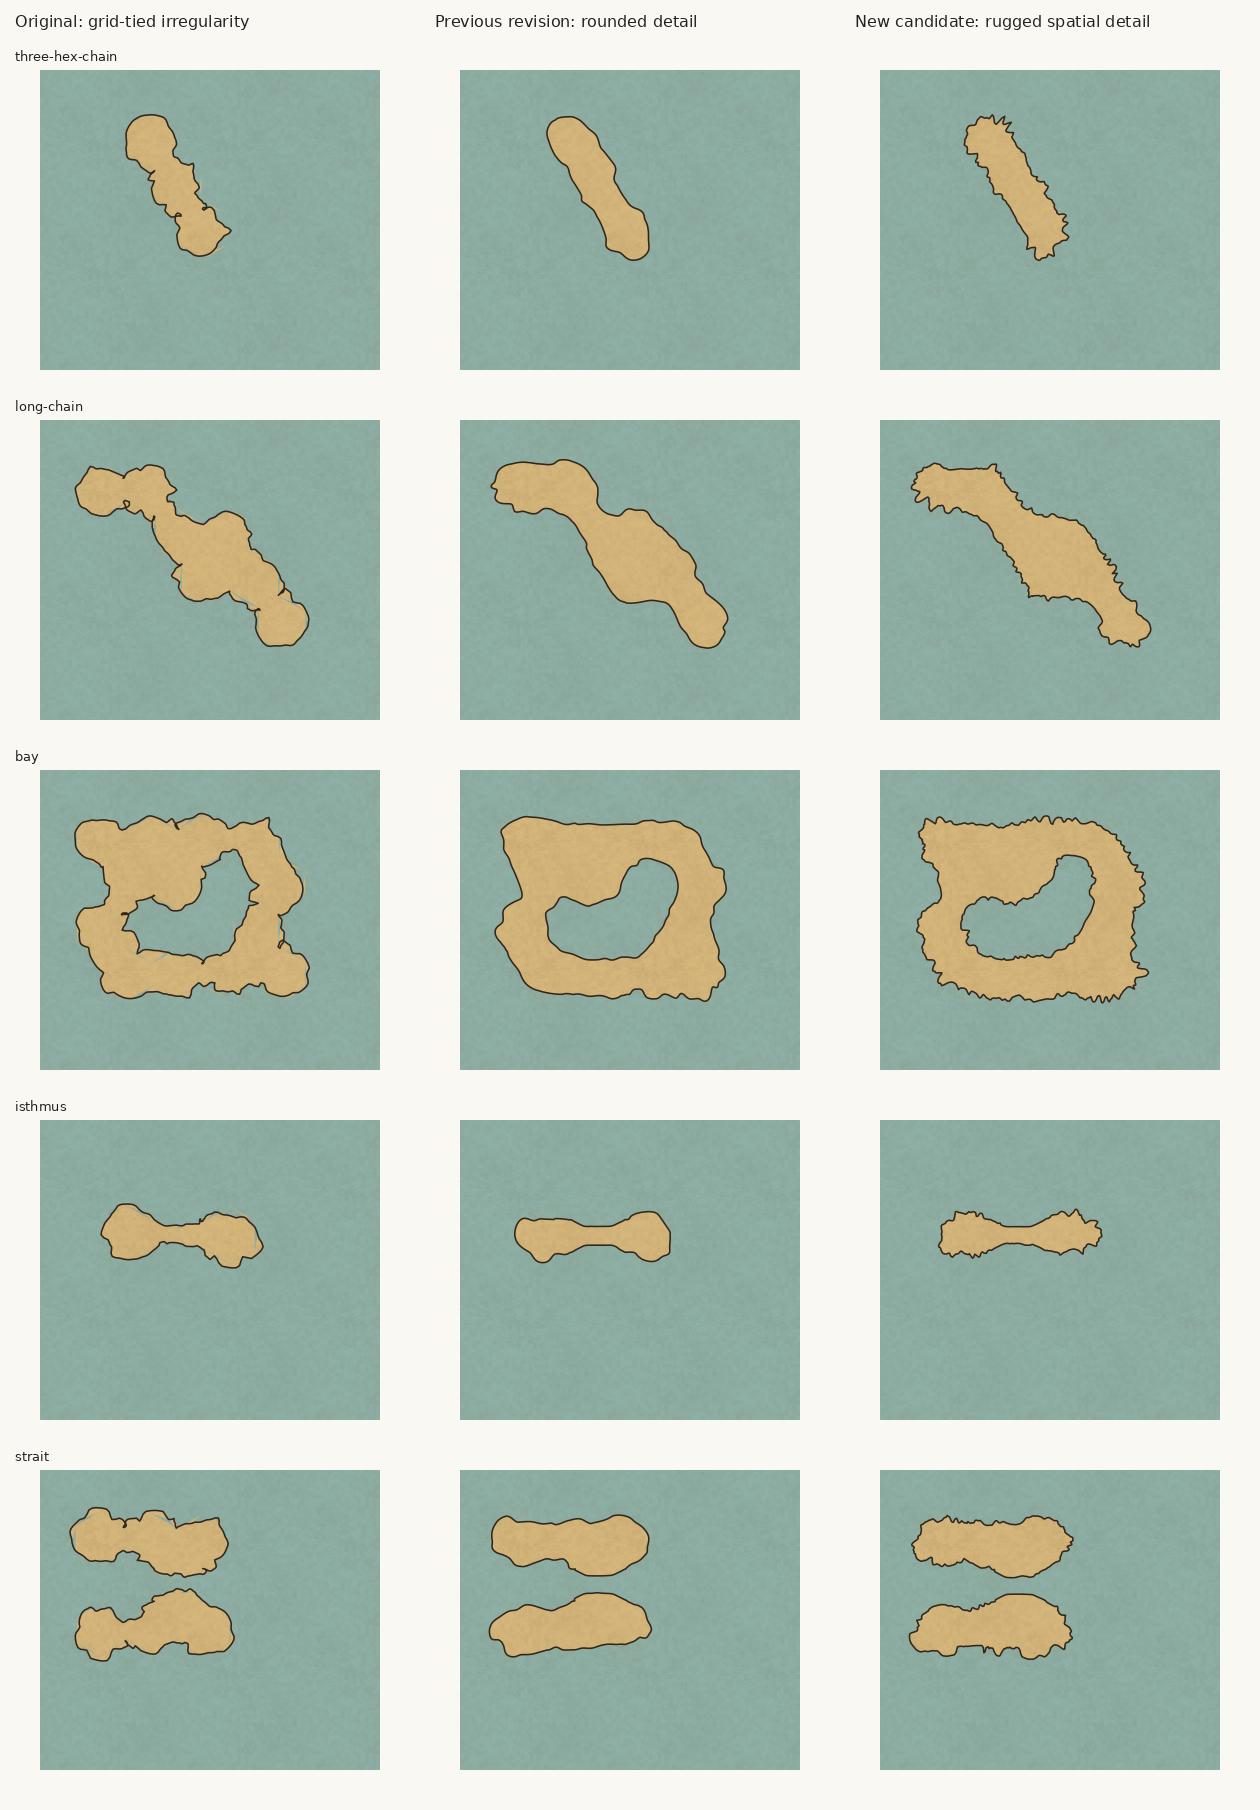
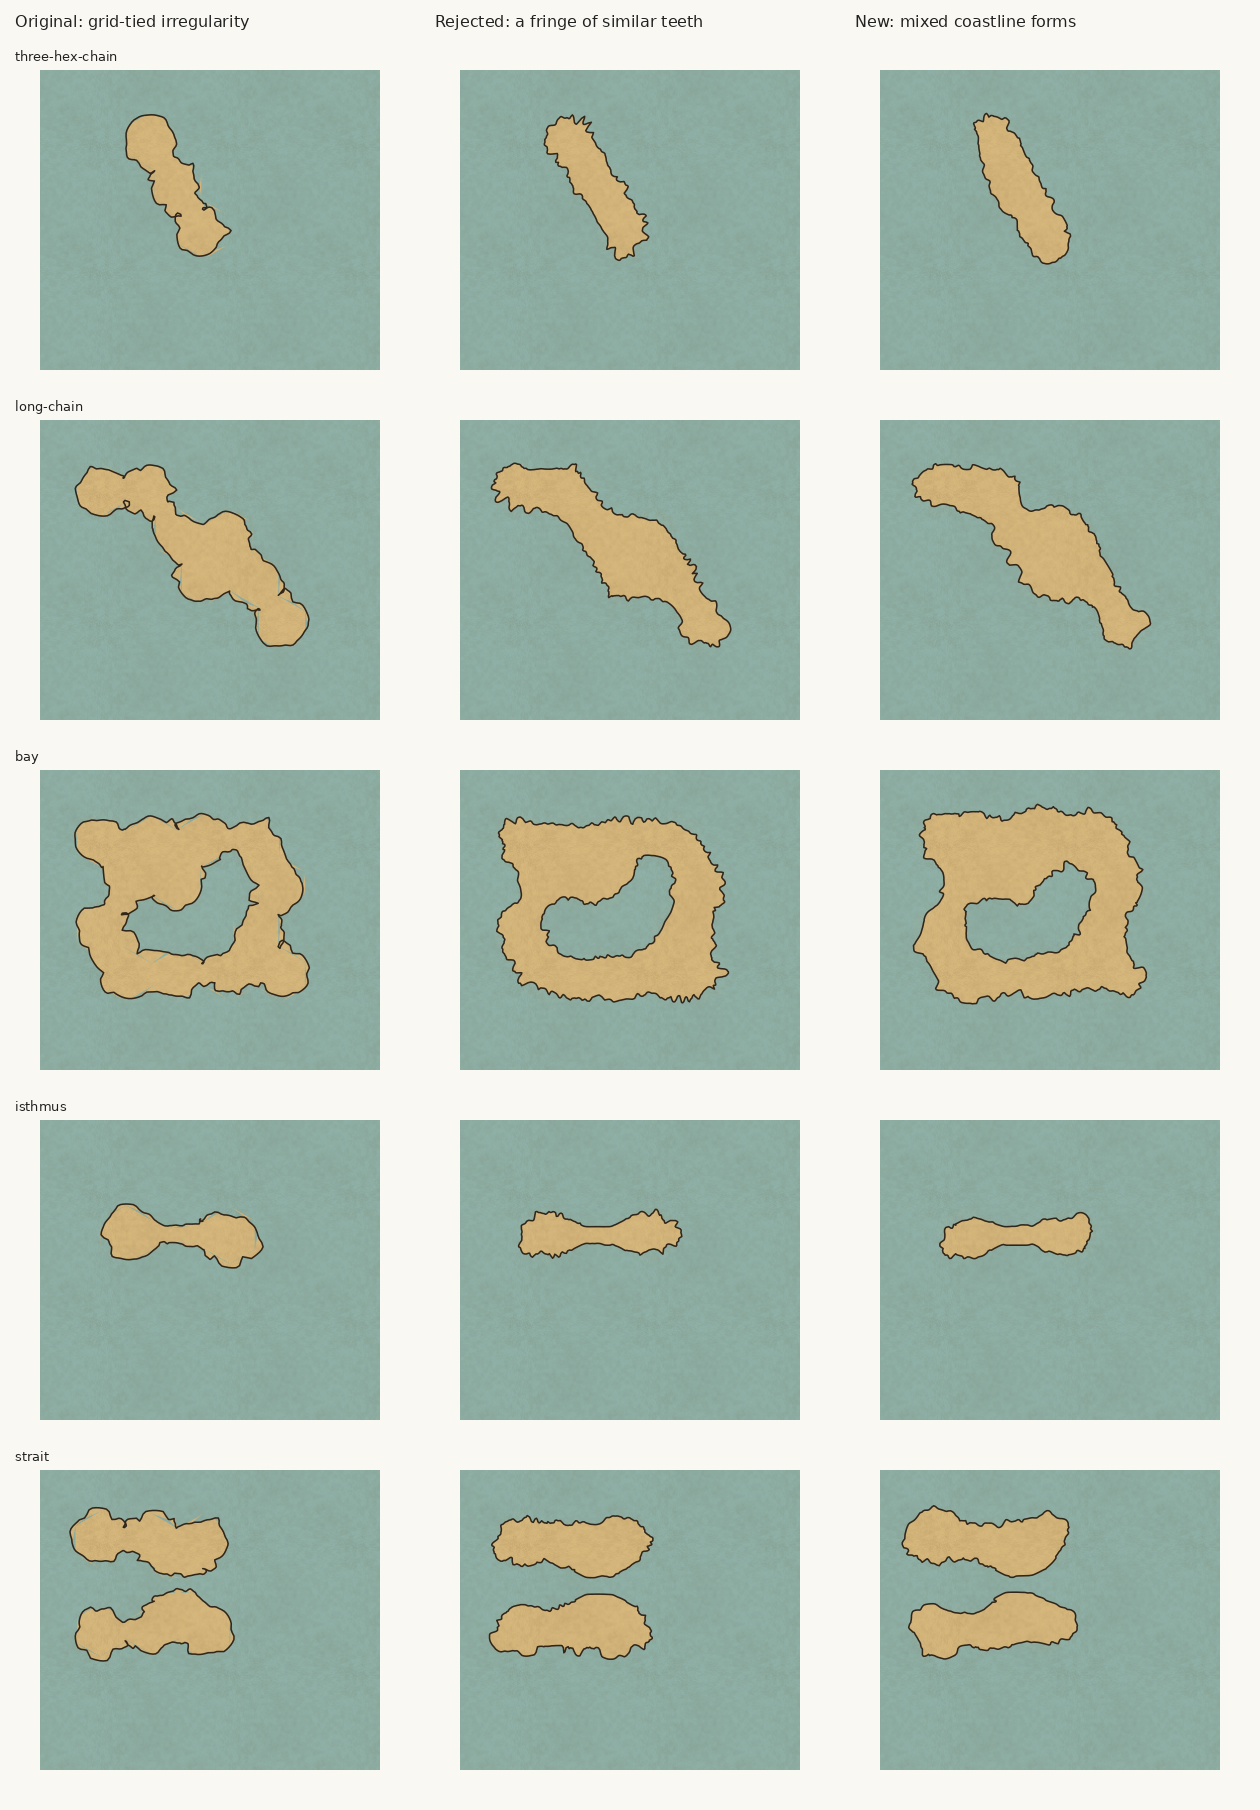
Shape broad coastal features separately from varied local cuts and capes

diff --git a/src/render/componentCoast.ts b/src/render/componentCoast.ts
@@ -54,7 +54,7 @@ export function coastClearance(chains: CoastChain[], size: number): (p: Point, c
     return nearest;
   };
 }
-/** Uniform arc-length samples, a multi-hex low-pass silhouette, then warped spatial ridge/erosion detail.
+/** Uniform arc-length samples, a multi-hex low-pass silhouette, then independently shaped bays, capes and cuts.
 * No source corner or edge midpoint is a mandatory waypoint. Source correspondence is kept
 * solely for donor colours, fill correction, border ends and explicit geographic constraints.
 */
@@ -99,13 +99,49 @@ export function componentCoast(chain: CoastChain, rough: Roughness, clearance: R
     const c = { x: silhouette.reduce((s, p) => s + p.x, 0) / n, y: silhouette.reduce((s, p) => s + p.y, 0) / n };
     silhouette.forEach((p, i) => silhouette[i] = { x: c.x + (p.x - c.x) * scale, y: c.y + (p.y - c.y) * scale });
   }
+  // Features belong to the whole component, with independent locations, signs,
+  // extents and profiles. Accumulate their finite supports into uniform samples;
+  // there is no alternating knot sequence or one repeated motif per hex edge.
+  const centre = { x: source.reduce((sum, p) => sum + p.x, 0) / n, y: source.reduce((sum, p) => sum + p.y, 0) / n };
+  const random = (feature: number, role: number) => rough.noise(centre.x / size, centre.y / size, feature * 31 + role);
+  const features = (band: number) => {
+    const broad = band === 0;
+    const values = Array<number>(n).fill(0);
+    const count = Math.max(broad ? 3 : 8, Math.ceil(perimeter / (size * (broad ? 3.5 : band === 1 ? 0.9 : 0.23))));
+    for (let f = 0; f < count; f++) {
+      const id = f + (broad ? 1000 : band === 1 ? 10000 : 20000);
+      const position = random(id, 0) * perimeter;
+      const width = size * (broad ? 0.9 + random(id, 1) * 2.7 : band === 1 ? 0.2 + random(id, 1) ** 2 * 1.0 : 0.06 + random(id, 1) ** 2 * 0.3);
+      const left = Math.min(perimeter / 4, width * (0.4 + random(id, 2) * 1.2));
+      const right = Math.min(perimeter / 4, width * (0.4 + random(id, 3) * 1.2));
+      const height = (random(id, 4) * 2 - 1) * Math.min(broad ? 0.55 : band === 1 ? 0.4 : 0.16, Math.min(left, right) / size * (broad ? 0.7 : 1.15));
+      const kind = Math.floor(random(id, 5) * 4);
+      const power = 1 + random(id, 6) * 1.25;
+      const shelf = 0.15 + random(id, 7) * 0.45;
+      const first = Math.ceil((position - left) / step), last = Math.floor((position + right) / step);
+      for (let j = first; j <= last; j++) {
+        if (!chain.closed && (j < 0 || j >= n)) continue;
+        const i = (j % n + n) % n, delta = j * step - position;
+        const u = Math.abs(delta) / (delta < 0 ? left : right);
+        let shape: number;
+        if (kind === 0) shape = (1 - u * u) ** 2;
+        else if (kind === 1) shape = (1 - u) ** power;
+        else if (kind === 2) shape = u < shelf ? 1 : (1 - u) / (1 - shelf);
+        else shape = (1 - u * u) ** 2 * (1 - (delta < 0 ? 3 : 0.5) * u);
+        values[i] = values[i]! + height * shape;
+      }
+    }
+    return values;
+  };
+  const broadFeatures = features(0), cuts = features(1), fine = features(2);
+  const shoreFeatures = cuts.map((v, i) => v + fine[i]!);
   const result = silhouette.map((p, i) => {
     const prev = silhouette[chain.closed ? (i - 1 + n) % n : Math.max(0, i - 1)]!;
     const next = silhouette[chain.closed ? (i + 1) % n : Math.min(n - 1, i + 1)]!;
     const dx = next.x - prev.x, dy = next.y - prev.y, len = Math.hypot(dx, dy) || 1;
     const amplitude = rough.amplitude(donors[i]!);
     const strength = amplitude > 0 ? 1 : 0;
-    const off = -(rough.lean?.(donors[i]!) ?? 0) * size;
+    const off = -(rough.lean?.(donors[i]!) ?? 0) * size + broadFeatures[i]! * size * amplitude / 0.12;
     const target = { x: p.x - dy / len * off, y: p.y + dx / len * off };
     const original = source[i]!;
     // Reserve movement for detail after the silhouette is eased. Explicit geographic limits
@@ -134,50 +170,6 @@ export function componentCoast(chain: CoastChain, rough: Roughness, clearance: R
     return { x: x / sum, y: y / sum };
   });
   result.splice(0, result.length, ...eased);
-  // Shape variation lives in a planar field, rather than in a sequence of alternating
-  // positive/negative knots around the shore. Warping the field's coordinates and using
-  // one-sided ridges creates asymmetric features at several scales.
-  const centre = { x: source.reduce((sum, p) => sum + p.x, 0) / n, y: source.reduce((sum, p) => sum + p.y, 0) / n };
-  const seedX = centre.x / size, seedY = centre.y / size;
-  const axis = rough.noise(seedX, seedY, 60) * Math.PI * 2;
-  const origin = {
-    x: rough.noise(seedX, seedY, 61) * 100,
-    y: rough.noise(seedX, seedY, 62) * 100,
-  };
-  const field = (p: Point, scale: number, purpose: number) => {
-    const px = (p.x - centre.x) / (size * scale), py = (p.y - centre.y) / (size * scale);
-    const x = px * Math.cos(axis) - py * Math.sin(axis) + origin.x;
-    const y = px * Math.sin(axis) + py * Math.cos(axis) + origin.y;
-    const ix = Math.floor(x), iy = Math.floor(y), fx = x - ix, fy = y - iy;
-    const gradient = (a: number, b: number) => {
-      const gx = rough.noise(seedX + a * 13, seedY + b * 17, purpose) * 2 - 1;
-      const gy = rough.noise(seedX + a * 13, seedY + b * 17, purpose + 100) * 2 - 1;
-      const length = Math.hypot(gx, gy) || 1;
-      return (gx * (x - a) + gy * (y - b)) / length;
-    };
-    const fade = (t: number) => t * t * t * (t * (t * 6 - 15) + 10);
-    const u = fade(fx), v = fade(fy);
-    const a = gradient(ix, iy), b = gradient(ix + 1, iy), c = gradient(ix, iy + 1), d = gradient(ix + 1, iy + 1);
-    return ((a + (b - a) * u) * (1 - v) + (c + (d - c) * u) * v) * 1.7;
-  };
-  const terrain = (p: Point) => {
-    const warped = {
-      x: p.x + field(p, 2.7, 70) * size * 0.75,
-      y: p.y + field(p, 2.7, 71) * size * 0.75,
-    };
-    const regional = field(warped, 1.8, 72);
-    // A regional field varies strength without switching detail off. Angular ridges
-    // and erosion remain present around the coast, with no coast-wide RMS normalization.
-    const gate = 0.4 + 0.6 * Math.max(0, Math.min(1, (regional + 0.55) / 1.05)) ** 2;
-    const coarse = field(warped, 2.3, 73);
-    const ridge = Math.abs(field(warped, 0.55, 74));
-    const inlet = Math.max(0, field(warped, 0.85, 75)) ** 2;
-    const fine = field(warped, 0.22, 76) * 0.65 + field(warped, 0.095, 77) * 0.2;
-    return {
-      flow: { x: field(warped, 2.0, 78), y: field(warped, 2.0, 79) },
-      relief: coarse * 0.7 + gate * (ridge * 1.7 - inlet * 2.5 + fine),
-    };
-  };
   const amplitudes = donors.map(edge => rough.amplitude(edge));
   const limits = donors.map((edge, i) => Math.min(size * 0.4, clearance(source[i]!, chain, i * step) * 0.14,
     (rough.displacementLimit?.(edge) ?? Infinity) * 0.4));
@@ -200,14 +192,12 @@ export function componentCoast(chain: CoastChain, rough: Roughness, clearance: R
     const next = eased[chain.closed ? (i + 1) % n : Math.min(n - 1, i + 1)]!;
     const dx = next.x - previous.x, dy = next.y - previous.y, length = Math.hypot(dx, dy) || 1;
     const arc = i * step;
-    const sample = terrain(p);
     const amplitude = settings[i]!.amplitude * size;
-    // Large planar flow changes the outline asymmetrically. Smaller ridged/erosive detail
-    // follows its local shore normal, with regionally varying strength.
-    const move = {
-      x: amplitude * (sample.flow.x * 1.5 - dy / length * sample.relief * 3.0),
-      y: amplitude * (sample.flow.y * 1.5 + dx / length * sample.relief * 3.0),
-    };
+    // Keep local cuts and capes after the component-scale silhouette filter. Their
+    // profiles range from curved bays to skewed wedges and shelves, rather than
+    // covering the whole coast with the same ridged high-frequency field.
+    const offset = shoreFeatures[i]! * amplitude / 0.12;
+    const move = { x: -dy / length * offset, y: dx / length * offset };
     const limit = settings[i]!.limit;
     const distance = Math.hypot(move.x, move.y) || 1;
     const ends = chain.closed ? 1 : Math.min(1, arc / size, (perimeter - arc) / size);

diff --git a/test/componentCoast.test.ts b/test/componentCoast.test.ts
@@ -83,14 +83,16 @@ test('an explicit narrow isthmus or strait retains its centre and at least half 
     const width = size * Math.sqrt(3) * 0.1;
     const shaped = shapeCoast(edges, surface, size, new Map([[27, { share: 0.5, kind: type === 'Isthmus' ? 'neck' : 'channel', width }]]))!;
     const limit = (e: CoastEdge) => (e.hex === 27 || e.across === 27) ? width * 0.15 : Infinity;
-    const geometry = coastGeometryOf(shaped.edges, true, { size, noise, amplitude: () => 0.2, displacementLimit: limit }, shaped);
-    const rings = geometry.paths.flatMap(d => pathPolylines(d, 6));
-    assert.equal(crossings(rings), 0, type);
-    const inside = evenOddTest(rings, size / 8), centre = hexCenter(3, 3, size);
-    // The land neck runs east-west; the water channel runs north-south.
-    // These closed rings enclose the land island or the water hole, respectively.
-    for (let y = -width * 0.25; y <= width * 0.25; y += width / 8) {
-      assert.equal(inside(type === 'Isthmus' ? { x: centre.x, y: centre.y + y } : { x: centre.x + y, y: centre.y }), true, `${type} width at y=${y}`);
+    for (let seed = 0; seed < 32; seed++) {
+      const geometry = coastGeometryOf(shaped.edges, true, { size, noise: (x, y, k) => noise(x, y, k + seed * 100), amplitude: () => 0.2, displacementLimit: limit }, shaped);
+      const rings = geometry.paths.flatMap(d => pathPolylines(d, 6));
+      assert.equal(crossings(rings), 0, `${type}, seed ${seed}`);
+      const inside = evenOddTest(rings, size / 8), centre = hexCenter(3, 3, size);
+      // The land neck runs east-west; the water channel runs north-south.
+      // These closed rings enclose the land island or the water hole, respectively.
+      for (let y = -width * 0.25; y <= width * 0.25; y += width / 8) {
+        assert.equal(inside(type === 'Isthmus' ? { x: centre.x, y: centre.y + y } : { x: centre.x + y, y: centre.y }), true, `${type}, seed ${seed}, width at y=${y}`);
+      }
     }
   }
 });
@@ -99,7 +101,7 @@ test('coast components remain disjoint across varied seeds, with lakes and small
   const base: BaseGeo[] = Array(64).fill('Sea');
   for (const i of [9,10,11,17,18,19,25,26,27,45,46,53,54]) base[i] = 'Land';
   base[18] = 'Sea'; // water hole in the northern island
-  for (let seed = 0; seed < 12; seed++) {
+  for (let seed = 0; seed < 32; seed++) {
     const geometry = coastGeometryOf(coastEdges(base, cols, rows, size), true, {
       size, noise: (x,y,k) => noise(x,y,k+seed*100), amplitude: () => 0.2,
     });
@@ -143,16 +145,20 @@ test('irregularity survives the silhouette stage, grows with its level, and does
     });
   };
   const rms = (values: number[]) => Math.sqrt(values.reduce((sum, v) => sum + v*v, 0) / values.length);
-  const wavy = rms(residual(0.06)), ragged = rms(residual(0.12)), fractured = rms(residual(0.2));
+  const ragged = rms(residual(0.12));
   assert.ok(ragged > size * 0.045, `visible Ragged displacement: ${ragged / size} hex radii`);
-  assert.ok(ragged > wavy * 1.4 && fractured > ragged * 1.2, 'levels preserve progressively more detail');
-  // Compare short and long variation, not just one broad distortion of an otherwise smooth body.
+
+  // Measure level progression on fine detail: broad bays can reach explicit width limits
+  // before local detail does. Whole-outline RMS conflates the two geometric stages.
   const offsets = residual(0.12), span = Math.round(size * 0.3 / (edges.length * size / quiet.length));
-  const fine = offsets.map((value, i) => {
+  const detail = (values: number[]) => values.map((value, i) => {
     let sum = 0;
-    for (let k = -span; k <= span; k++) sum += offsets[(i + k + offsets.length) % offsets.length]!;
+    for (let k = -span; k <= span; k++) sum += values[(i + k + values.length) % values.length]!;
     return value - sum / (2 * span + 1);
   });
+  const fine = detail(offsets);
+  const detailLevels = [0.06, 0.12, 0.2].map(a => rms(detail(residual(a))));
+  assert.ok(detailLevels[1]! > detailLevels[0]! * 1.4 && detailLevels[2]! > detailLevels[1]! * 1.2, `levels preserve progressively more fine detail: ${detailLevels}`);
   assert.ok(rms(fine) > size * 0.018, 'smaller bays and points survive alongside larger changes');
   const crossingArcs: number[] = [];
   const step = edges.reduce((sum,e) => sum + Math.hypot(e.to.x-e.from.x,e.to.y-e.from.y),0) / offsets.length;

diff --git a/docs/coast-component-comparison.md b/docs/coast-component-comparison.md
@@ -2,15 +2,16 @@
 
 The original geometry retained one curve per hex corner. Its repeated rounded
 lobes, inward notches and grid-aligned shoulders made coastlines look regularly
-irregular. Component smoothing alone removed too much detail. Adding coast-arc noise
-restored detail but still produced a repeated rounded bump/dip motif. This
-candidate replaces that detail generator with warped spatial ridges and erosion
-to aim for rugged, angular coastlines. The images are for visual review; passing
-geometric checks does not establish that the appearance is satisfactory.
+irregular. Component smoothing alone removed too much detail. Coast-arc noise
+then repeated rounded bump/dip forms, while the spatial ridge revision repeated
+small teeth. This candidate replaces that generator with independent coastal
+features of different profiles and sizes, and changes the broad silhouette as
+well as its detail. The images are for visual review; geometric checks do not
+establish that the appearance is satisfactory.
 
 ![Original, previous revision and new candidate](coast-component-comparison.png)
 
-Columns: original renderer at `24c5927`, previous revision at `44a36bc`, current
+Columns: original renderer at `24c5927`, rejected ridge revision at `29ed2c3`, current
 revision. Rows: three-hex chain, longer chain, bay, explicit isthmus and strait.
 Inputs, seed (`coast-evidence`), 30-pixel hex radius, Ragged setting and parchment
 style are the same. These are actual `buildScene` / SVG renders rasterized with
@@ -26,20 +27,21 @@ rendered silhouette and grows with the chosen level.
 
 ![The same inputs and Ragged level with three seeds](coast-component-seeds.png)
 
-Three fixed seeds on the same inputs at Ragged. Detail is sampled from a seeded
-two-dimensional gradient field with a random orientation. A broad spatial field warps its coordinates; absolute-value ridges,
-one-sided erosion and smaller signed fields add angular points and cuts at
-several scales. Regional variation changes strength while retaining fine detail
-around the coast. Neither knots along the coastline nor its original hex corners
-control feature placement. The field is continuous across closed-ring seams.
+Three fixed seeds on the same inputs at Ragged. Broad features span multiple
+hexes and reshape the component before its final silhouette filter. Medium and
+small features are added afterward. Each has an independent location, signed
+height, left/right extent and profile: curved, pointed, shelf-like, or a compound
+cut with an asymmetric shoulder. Overlap creates clusters; neither signs nor
+spacing alternate around the coastline. Narrow supports limit height to avoid
+single-sample spikes. Original corners and midpoints do not place the features.
 
 ## Geometry and fills
 
 Boundary rings are sampled at uniform arc length and filtered across multiple
 hexes. Nearby shores and explicit neck/channel widths bound movement. The
-component silhouette is eased first; detail is added afterward and is not
-smoothed away. Roughness settings and width limits transition as scalar values
-without filtering the detailed contour. The two stages share the width budget.
+component silhouette includes broad features and is eased first; medium and
+small detail is added afterward and is not smoothed away. Roughness settings and
+width limits transition as scalar values without filtering the detailed contour. The two stages share the width budget.
 
 Original edges retain colour donors and border correspondence. Donor ground
 extends beneath the final silhouette so folds in correction patches cannot leave
@@ -64,12 +66,14 @@ columns were captured from their respective source versions before this candidat
 Gallery crops are enlarged rasterizations of those SVGs.
 
 Regression coverage includes preserved coarse and fine detail, increasing
-irregularity levels, variation that does not align with hex-edge intervals,
-deterministic seeds and zoom, border anchors, narrow necks/channels, separate
-components and a water hole across twelve seeds, fixed map-edge endpoints, and
+fine detail with irregularity levels, variation that does not align with hex-edge
+intervals, deterministic seeds and zoom, border anchors, narrow necks/channels
+across thirty-two seeds, separate components and a water hole across thirty-two
+seeds, fixed map-edge endpoints, and
 painted coverage at former fill pinholes. These checks establish the tested
 cases, rather than proving topology preservation for every possible input.
 
 Validation: all 398 tests passed. Production build and client/server typechecking
 passed. The new detail-retention regression checks both coarse and fine variation
-and Wavy/Ragged/Fractured progression, alongside the geographic width and fill tests.
+and Wavy/Ragged/Fractured fine-detail progression, alongside the geographic width
+and fill tests.
